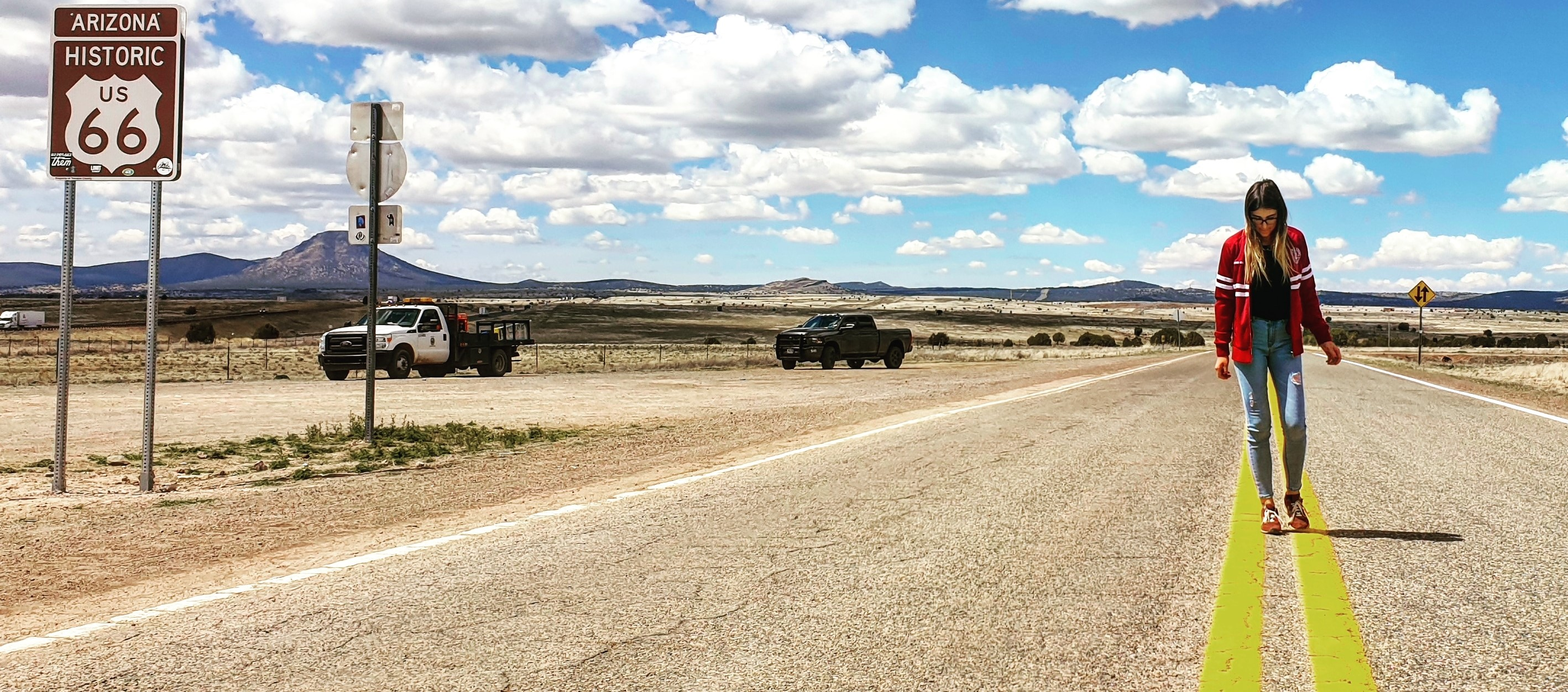
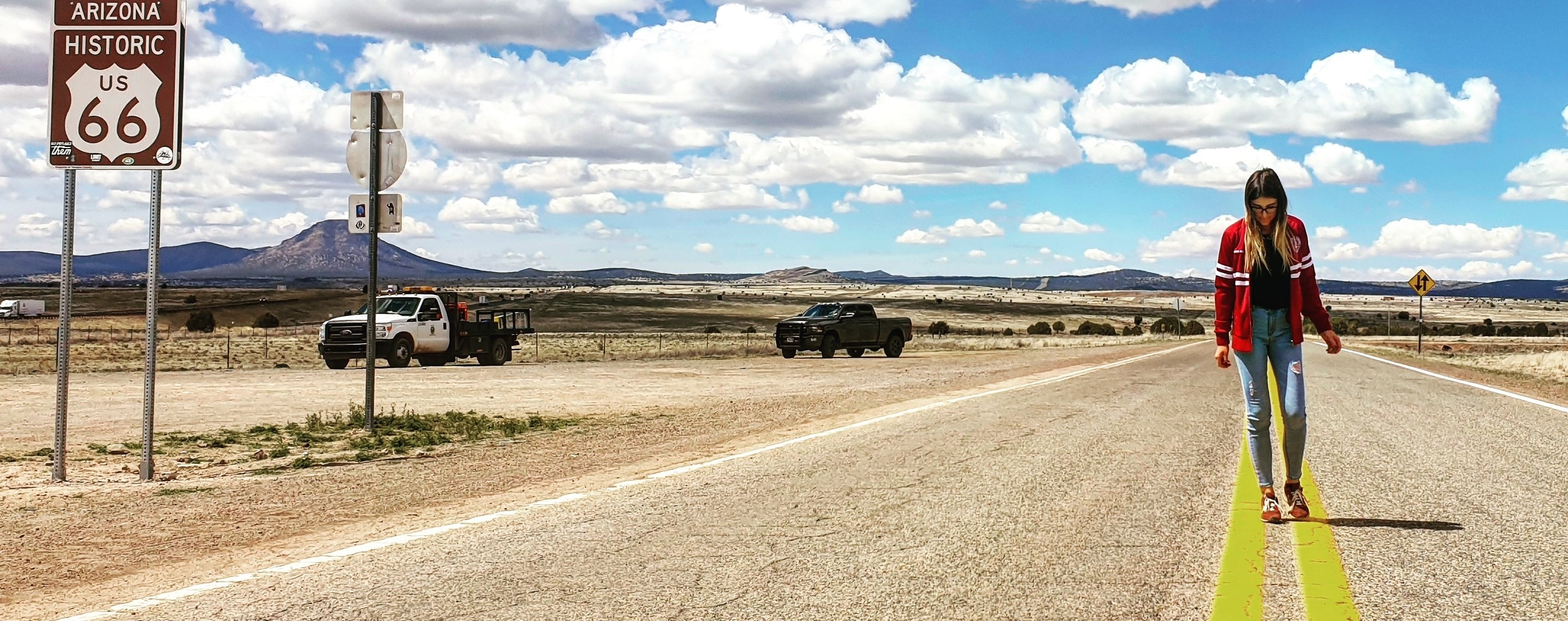
:)

diff --git a/portfolio.css b/portfolio.css
@@ -3,6 +3,8 @@
   justify-content: flex-end;
   list-style: none;
   margin-top: -10px;
+  margin-left: -7.8px;
+  margin-right: -7.8px;
   background: #8b0000;
 }
 
@@ -18,8 +20,7 @@
 }
 
 .me {
-  display: flex;
   width: 100vw;
-  box-sizing: border-box;
-  justify-content: flex-end;
+  margin-top: -20px;
+  margin-left: -7.8px;
 }
